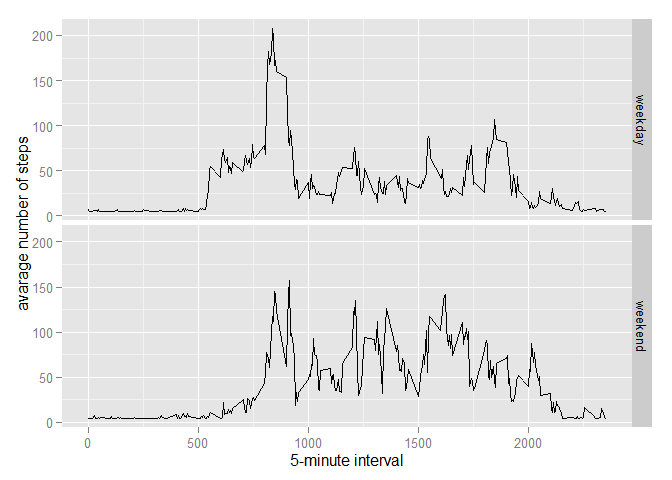
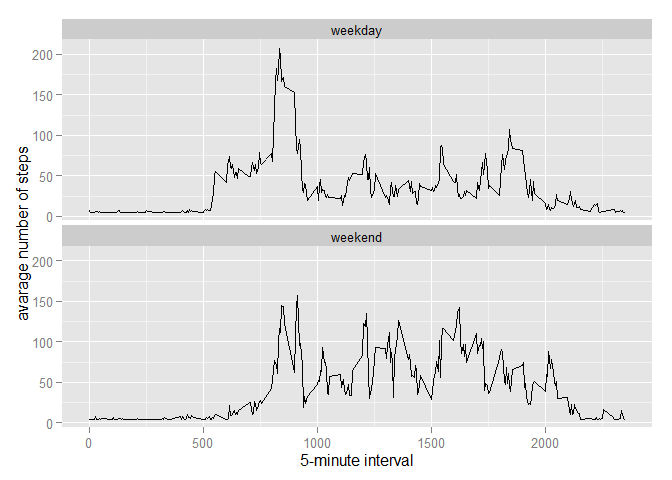
Analysis Final 2: Section 1-5
Added Lattice Plot to 5, stacked ggplot

diff --git a/PA1.html b/PA1.html
@@ -73,7 +73,8 @@ img {
 <div id="packages-required" class="section level4">
 <h4>1. Packages required</h4>
 <pre class="r"><code>library(ggplot2)
-library(Hmisc)</code></pre>
+library(Hmisc)
+library(lattice)</code></pre>
 </div>
 <div id="set-local-working-directory.-this-assumes-the-following" class="section level4">
 <h4>2. Set local working directory. This assumes the following:</h4>
@@ -182,13 +183,26 @@ ImputedStepsByDayMedian &lt;- median(ImputedStepsByDay)</code></pre>
 </div>
 <div id="make-a-panel-plot-containing-a-time-series-plot-i.e.type-l-of-the-5-minute-interval-x-axis-and-the-average-number-of-steps-taken-averaged-across-all-weekday-days-or-weekend-days-y-axis.-see-the-readme-file-in-the-github-repository-to-see-an-example-of-what-this-plot-should-look-like-using-simulated-data." class="section level4">
 <h4>1.Make a panel plot containing a time series plot (i.e. type = “l”) of the 5-minute interval (x-axis) and the average number of steps taken, averaged across all weekday days or weekend days (y-axis). See the README file in the GitHub repository to see an example of what this plot should look like using simulated data.</h4>
+<ul>
+<li>Panel using ggplot</li>
+</ul>
 <pre class="r"><code>ImputedSet &lt;- aggregate(steps ~ interval + dateType, data=ImputedSet, mean)
 ggplot(ImputedSet, aes(interval, steps)) + 
     geom_line() + 
-    facet_grid(dateType ~ .) +
+    facet_grid( ~ dateType) +
+    facet_wrap( ~ dateType, ncol=1) +
     xlab(&quot;5-minute interval&quot;) + 
     ylab(&quot;avarage number of steps&quot;)</code></pre>
[2 lines of base64/hex data omitted]
+<ul>
+<li>Panel using lattice</li>
+</ul>
+<pre class="r"><code>xyplot(steps ~ interval | dateType,
+       data = ImputedSet,
+       type = c(&quot;l&quot;,&quot;g&quot;),
+       layout=c(1,2)
+)</code></pre>
[1 lines of base64/hex data omitted]
 </div>
 </div>
 

diff --git a/PA1.md b/PA1.md
@@ -9,6 +9,7 @@ September 15, 2015
 ```r
 library(ggplot2)
 library(Hmisc)
+library(lattice)
 ```
 
 #### 2. Set local working directory.  This assumes the following:
@@ -155,14 +156,30 @@ ImputedSet$dateType <-  ifelse(as.POSIXlt(ImputedSet$date)$wday %in% c(0,6), 'we
 
 #### 1.Make a panel plot containing a time series plot (i.e. type = "l") of the 5-minute interval (x-axis) and the average number of steps taken, averaged across all weekday days or weekend days (y-axis). See the README file in the GitHub repository to see an example of what this plot should look like using simulated data.
 
+* Panel using ggplot 
+
 
 ```r
 ImputedSet <- aggregate(steps ~ interval + dateType, data=ImputedSet, mean)
 ggplot(ImputedSet, aes(interval, steps)) + 
     geom_line() + 
-    facet_grid(dateType ~ .) +
+    facet_grid( ~ dateType) +
+    facet_wrap( ~ dateType, ncol=1) +
     xlab("5-minute interval") + 
     ylab("avarage number of steps")
 ```
 
 ![](PA1_files/figure-html/unnamed-chunk-15-1.png) 
+
+* Panel using lattice
+
+
+```r
+xyplot(steps ~ interval | dateType,
+       data = ImputedSet,
+       type = c("l","g"),
+       layout=c(1,2)
+)
+```
+
+![](PA1_files/figure-html/unnamed-chunk-16-1.png) 
